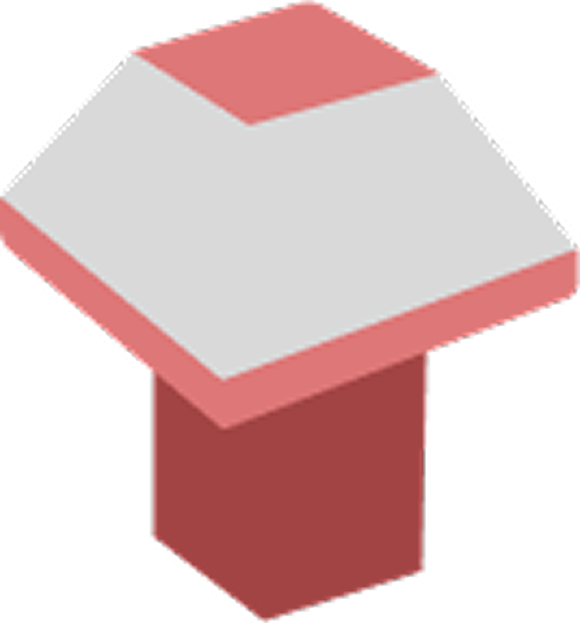
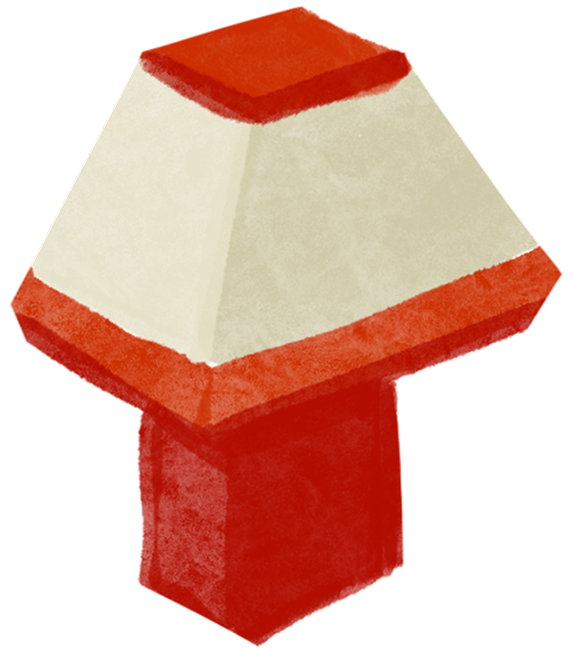
fietsroute aangepast

diff --git a/public/css/style.css b/public/css/style.css
@@ -207,14 +207,14 @@ p{
 
 /* ===== ROUTE INFO PANEL ===== */
 .route-info {
-    position: fixed;
+    position: fixed;    
     top: 50%;
     left: 50%;
     transform: translate(-50%, -50%) scale(0.95);
     width: min(90vw, 24rem);
     max-height: 80vh;
     overflow-y: auto;
-    background-color: #d9e8ec;
+    background-color: var(--clr-background);
     border-radius: 1.5rem;
     padding: 1.5rem;
     box-shadow: 0 1rem 2rem rgba(0, 0, 0, 0.25);
@@ -224,6 +224,8 @@ p{
     visibility: hidden;
     pointer-events: none;
     transition: opacity 0.25s ease, transform 0.25s ease, visibility 0.25s;
+    overflow-y: auto;
+    overflow-x: hidden;
   }
   
   .route-info.open {
@@ -233,33 +235,36 @@ p{
     transform: translate(-50%, -50%) scale(1);
   }
   
-  .sluit-route-info {
+.sluit-route-info {
     position: absolute;
-    top: 1rem;
-    right: 1rem;
+    top: .4rem;
+    right: -1.8rem; /* was 1rem, kleiner = meer naar rechts */
     background: none;
     border: none;
     cursor: pointer;
     color: #1c3f6e;
-  }
+}
   
+.kruisje-route {
+    fill: var(--clr-primary);
+    margin-left: .5em;
+}
+
   .route-info__titel {
     display: flex;
     align-items: center;
     gap: 0.75rem;
     margin-bottom: 1.5rem;
-    padding-right: 2rem;
   }
   
   .route-info__icoon-titel {
     flex-shrink: 0;
-    color: #1c3f6e;
+    color: var(--clr-primary);
   }
   
   .route-info__titel h2 {
     font-size: 1.5rem;
-    color: #1c3f6e;
-    margin: 0;
+    color: var(--clr-primary);
   }
   
   .route-info__details {
@@ -282,9 +287,14 @@ p{
   }
   
   .route-info__label {
-    font-weight: 600;
+    font-weight: 500;
     color: #1c3f6e;
+    font-family: roboto;
   }
+
+.button-route {
+    margin-left: 9.5rem;
+}
 
 @media (min-width: 700px) {
     #kaart {

diff --git a/public/js/kaart.js b/public/js/kaart.js
@@ -255,13 +255,38 @@ const locaties = [
 const startpunten = [
   {
     naam: "Fietsroute De Ronde Hoep",
-    coords: [52.300, 4.935],
+    coords: [52.284, 4.951],
+    afstand: "16 km",
+    thema: "vogels, natuur",
+    duur: "60 min",
+    knooppunten: "9"
+  },
+  // later: meer startpunten hier toevoegen
+  
+  {
+    naam: "Fietsroute De Ronde Hoep",
+    coords: [52.311, 4.972],
+    afstand: "16 km",
+    thema: "vogels, natuur",
+    duur: "60 min",
+    knooppunten: "9"
+  },
+  {
+    naam: "Fietsroute De Ronde Hoep",
+    coords: [52.300, 4.924],
+    afstand: "16 km",
+    thema: "vogels, natuur",
+    duur: "60 min",
+    knooppunten: "9"
+  },
+  {
+    naam: "Fietsroute De Ronde Hoep",
+    coords: [52.3195, 4.958],
     afstand: "16 km",
     thema: "vogels, natuur",
     duur: "60 min",
     knooppunten: "9"
   }
-  // later: meer startpunten hier toevoegen
 ];
 
 // 6. Markers aanmaken en opslaan
